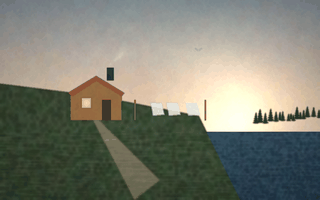
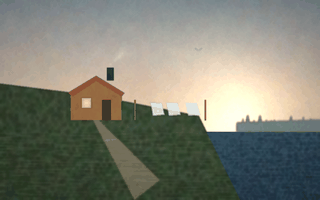
The far shore stands ON the water: the waterline rule
User-caught again, and rightly: the house scene's right-side
spruces were planted 0.04-0.08H ABOVE the horizon - near-dark,
near-scale trees standing in the sky over the sea. They were
meant as the far shore across the bay, and a far shore's treeline
plants its bases exactly ON the horizon line, small and in
atmospheric far color, over a low silhouette band. Fixed so, and
the title regenerated clean alongside.

The rule now in the aesthetic bible, since this class bit twice
in one day: before shipping any scene with water, check every
treeline AT THE WATERLINE - it is the first place the eye tests
a painted landscape and the first place procedural composition
lies.

Claude-Session: https://claude.ai/code/session_01R3bSM67DFWoUu4UxFBU7g1

Changed region(s): [[0.7188, 0.54, 1.0, 0.66]]

diff --git a/godot/tools/art/scene_painter.py b/godot/tools/art/scene_painter.py
@@ -492,8 +492,14 @@ def salmonberry_house(H, W):
         fill_poly(arr, [(sx0, ly - H * 0.028), (sx0 + W * 0.035, ly - H * 0.024), (sx0 + W * 0.045, ly + H * 0.035), (sx0 + W * 0.008, ly + H * 0.04)], C["foam"], blur=1.0, opacity=0.92)
     # the path down, pale, switchbacked
     fill_poly(arr, [(hx + W * 0.07, hy + H * 0.16), (hx + W * 0.09, hy + H * 0.16), (W * 0.5, H * 0.9), (W * 0.42, H)], (150, 138, 112), blur=2, opacity=0.7)
-    sprucerow(arr, int(W * 0.8), W, int(H * 0.6), C["fir"], seed=8, blur=1.0,
-              ridge=[(W * 0.78, H * 0.62), (W, H * 0.58)])
+    # The far shore ACROSS the water: a treeline whose bases sit
+    # exactly ON the horizon (hz), in atmospheric far color — the
+    # first two drafts planted near-dark trees 0.04-0.08H above
+    # the waterline and they hovered in the sky (user-caught,
+    # twice; the render must be checked at the WATERLINE).
+    fill_poly(arr, [(W * 0.74, hz), (W * 0.74, hz - H * 0.045), (W, hz - H * 0.06), (W, hz)], C["fir_far"], blur=2.5)
+    sprucerow(arr, int(W * 0.76), W, hz, C["fir_far"], seed=8, blur=2.0,
+              ridge=[(W * 0.74, hz - H * 0.005), (W, hz - H * 0.015)])
     clouds(arr, seed=15, top=0.02, bottom=0.38, tint=(244, 234, 220), amount=0.26)
     water_pull(arr, 0.66, 1.0, seed=11)
     _gulls(arr, [(W * 0.62, H * 0.25)])

diff --git a/lore/_SLOWSTICK_AESTHETIC_BIBLE.md b/lore/_SLOWSTICK_AESTHETIC_BIBLE.md
@@ -31,6 +31,15 @@ What this changes:
   are now the GOAL, not banned. (The bans still apply to the 3D VN
   locales and the `demoscene_post` shader stack — those are a separate
   system.) Font floor 12 still holds for UI text drawn over scenes.
+- **The waterline rule (user-caught twice, same day):** trees
+  hovered over water in two consecutive drafts — first a spruce
+  row on a fixed baseline running past its cliff edge, then a
+  "far shore" treeline planted 0.04–0.08H ABOVE the horizon. A
+  treeline across water plants its bases exactly ON hz, in far
+  atmospheric color, over a low silhouette band. Review rule:
+  before shipping any scene with water, check every treeline AT
+  THE WATERLINE — it is the first place the eye tests a painted
+  landscape and the first place procedural composition lies.
 - **Procedural draft 2 (same day, after "art still needs work"):**
   the painter gained a global PAINTERLY PASS (multi-octave canvas
   grain · EDGE-HOLD ink that darkens along the image's own
